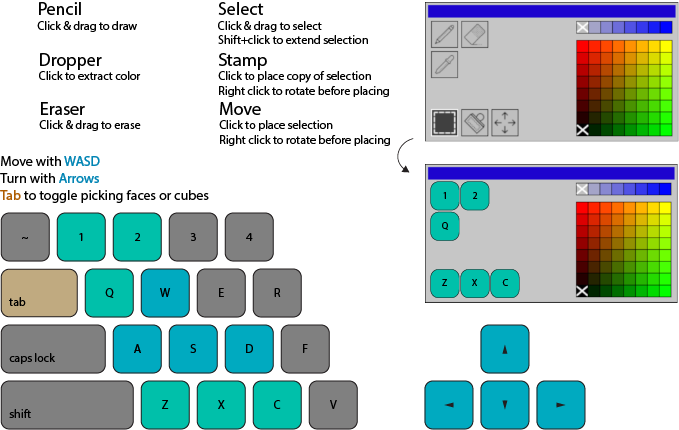
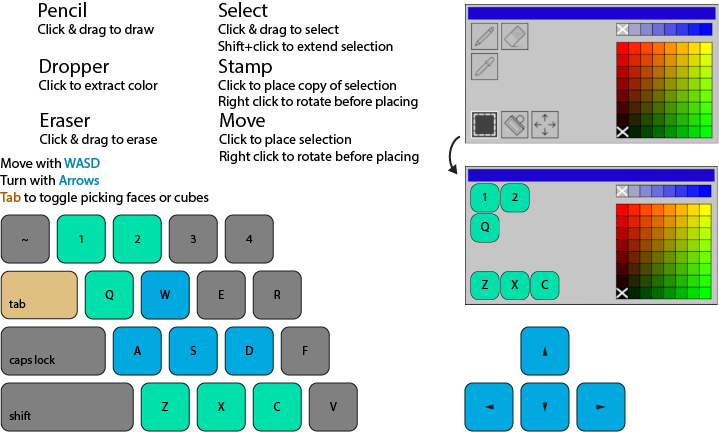
update instructions

diff --git a/src/internal/instructions_panel.h b/src/internal/instructions_panel.h
@@ -6,15 +6,15 @@
 #define PENCIL_BUTTON_X                    8
 #define PENCIL_BUTTON_Y                   24
 #define COLOR_DROPPER_BUTTON_X             8
-#define COLOR_DROPPER_BUTTON_Y            74
+#define COLOR_DROPPER_BUTTON_Y            82
 #define ERASER_BUTTON_X                    8
-#define ERASER_BUTTON_Y                  124
+#define ERASER_BUTTON_Y                  136
 #define SELECT_BUTTON_X                  185
 #define SELECT_BUTTON_Y                   24
 #define STAMP_BUTTON_X                   185
-#define STAMP_BUTTON_Y                    74
+#define STAMP_BUTTON_Y                    82
 #define MOVE_BUTTON_X                    185
-#define MOVE_BUTTON_Y                    124
+#define MOVE_BUTTON_Y                    136
 
 /* Action region callbacks */
 
